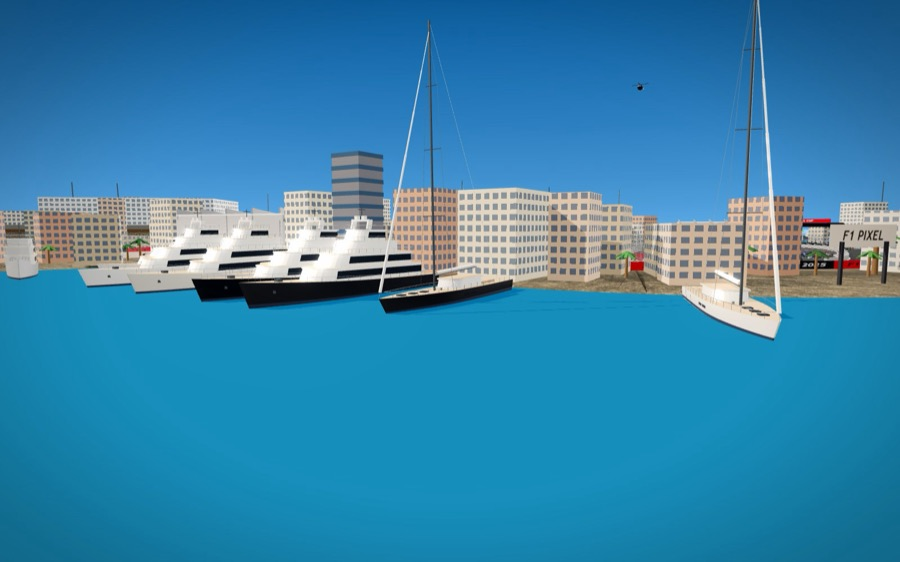
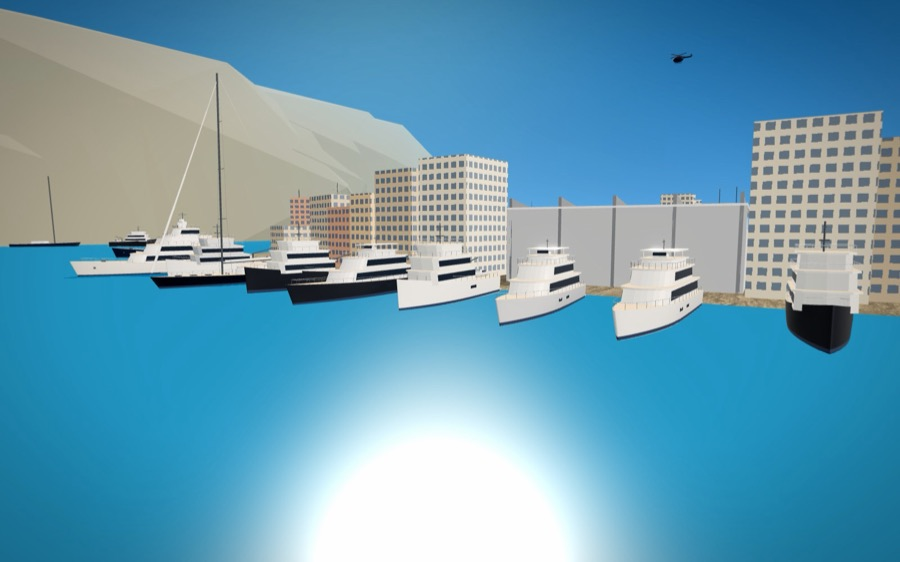
Review images (docs/review/2026-10-04): the Monaco harbour and new pit lane, the Safety Car out, in and parked, Marina Bay Sands close, Spa, Interlagos, the Flyer from the track; the site's Trackside shots retaken (Singapore down the main straight)

diff --git a/tools/capture-shots.js b/tools/capture-shots.js
@@ -212,7 +212,8 @@ async (page) => {
   const TRACKSIDE = [
     { name: "trackside-casino", circuit: "monaco", aim: "casino", back: 40, h: 12, ah: 40, fov: 60, side: 0 },
     { name: "trackside-yachts", circuit: "monaco", aim: "yachts" },
-    { name: "trackside-singapore", circuit: "singapore", aim: "singaporeFlyer", back: -260, h: 160, ah: 220, fov: 60, side: 120 },
+    // Down the main straight to the Flyer, the pits and Marina Bay Sands beside it.
+    { name: "trackside-singapore", circuit: "singapore", aim: "road", from: -500, to: 100, h: 14, fov: 62 },
     { name: "trackside-crowd", circuit: "monaco", aim: "stand" },
     { name: "trackside-crews", circuit: "monaco", aim: "crew" },
     { name: "trackside-wing", circuit: "silverstone", aim: "silverstoneWing", back: 60, h: 30, ah: 30, fov: 60, side: 40 },
@@ -230,7 +231,15 @@ async (page) => {
       let from;
       let at;
       let fov = 55;
-      if (t.aim === "yachts") {
+      if (t.aim === "road") {
+        const route = getItemRoute(state.track);
+        const L = state.track.totalLength;
+        const a = route.toWorld(((t.from % L) + L) % L, 0);
+        const b = route.toWorld(((t.to % L) + L) % L, 0);
+        from = { x: a.x, y: a.y, h: t.h };
+        at = { x: b.x, y: b.y, h: 10 };
+        fov = t.fov;
+      } else if (t.aim === "yachts") {
         // Over the water, the moored yachts sterns to the quay.
         const moored = ts.yachts.yachts.filter((v) => v.moored);
         const y = moored[Math.min(12, moored.length - 1)];

diff --git a/index.html b/index.html
@@ -124,8 +124,8 @@
           <figcaption><b>The harbour</b> Superyachts moored stern-to along the quay and more at anchor, rocking gently on the water.</figcaption>
         </figure>
         <figure class="trackside-card">
-          <img src="./assets/shots/trackside-singapore.jpg" alt="The Singapore Flyer lit up at night over the city" loading="lazy">
-          <figcaption><b>Singapore at night</b> The Flyer's capsules glow over the city, and Marina Bay Sands stands across the water.</figcaption>
+          <img src="./assets/shots/trackside-singapore.jpg" alt="The Singapore Flyer lit up at night at the end of the main straight, Marina Bay Sands beside it" loading="lazy">
+          <figcaption><b>Singapore at night</b> The Flyer glows at the end of the main straight, with Marina Bay Sands beside it.</figcaption>
         </figure>
         <figure class="trackside-card">
           <img src="./assets/shots/trackside-crowd.jpg" alt="A grandstand full of fans on their feet with their arms in the air" loading="lazy">
